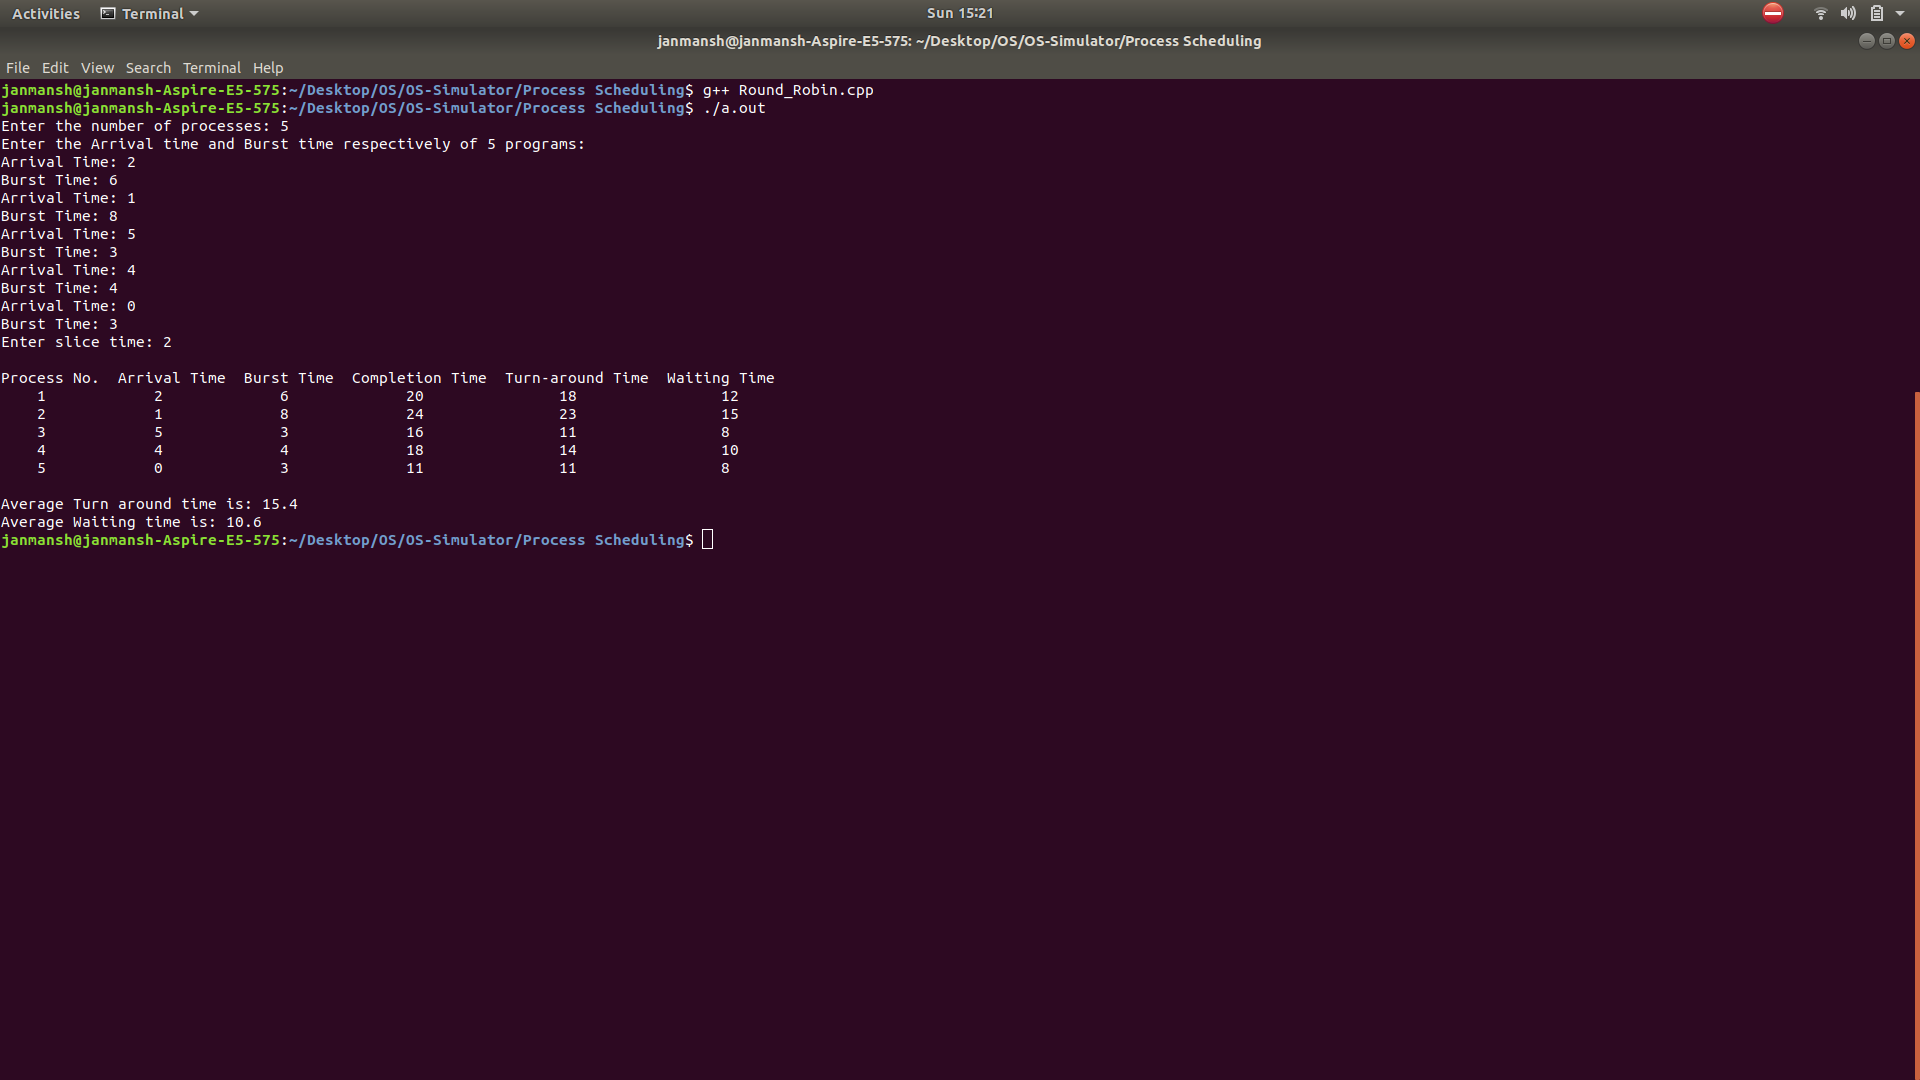
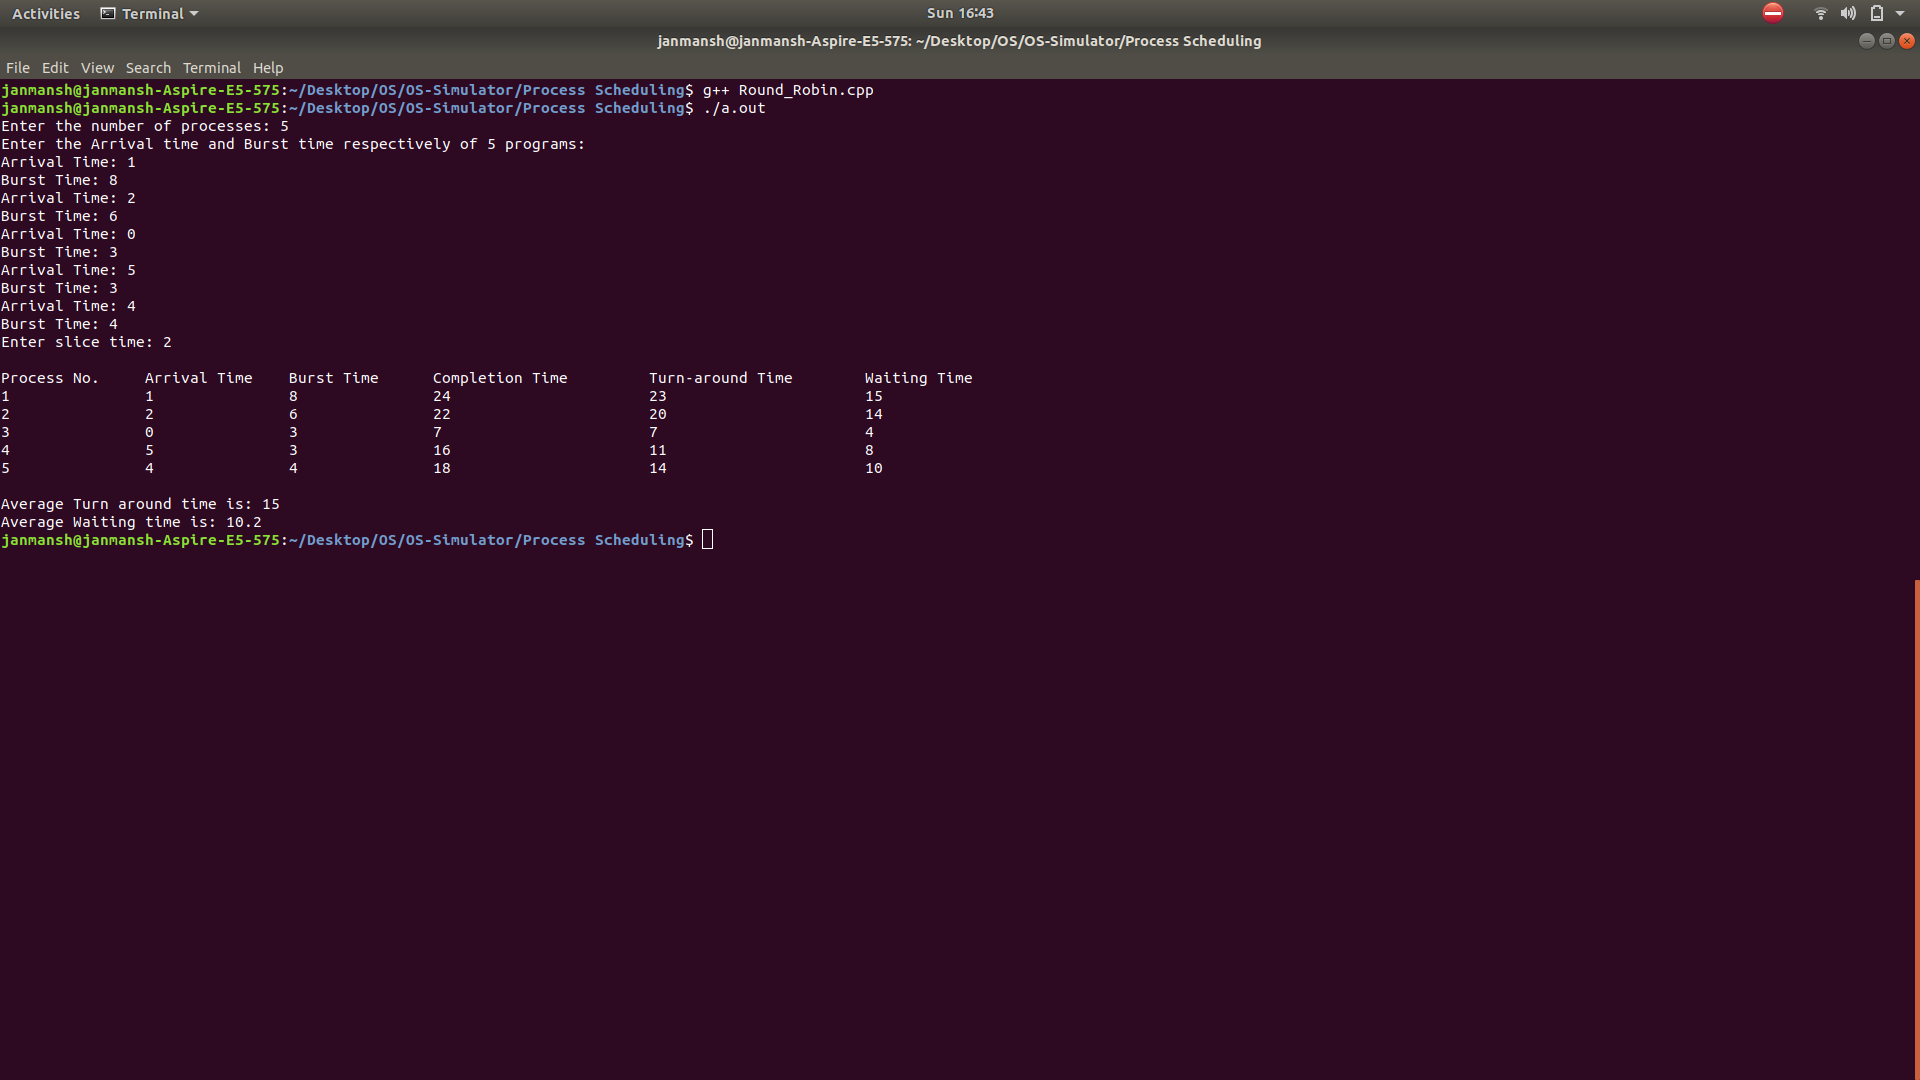
fixed spacing and some errors

Changed region(s): [[0.0625, 0.3361, 0.4062, 0.3972], [0.4375, 0.3361, 0.5, 0.3667]]

diff --git a/Process Scheduling/Priority_preemptive.cpp b/Process Scheduling/Priority_preemptive.cpp
@@ -1,0 +1,70 @@
+#include<bits/stdc++.h>
+using namespace std;
+
+void Priority_preemptive(){
+    
+	cout << "Enter the number of processes: ";
+	int n,i,j;
+	cin>>n;
+	while(n<0){
+		cout<<"Wrong input, try again\nEnter number of processes: ";
+		cin>>n;
+	}
+	vector<tuple<int, int, int, int, int, int>>times(n); // {at, bt, priority ct, tat, wt}
+	
+	cout << "Enter the Arrival time and Burst time respectively of " << n << " programs:\n";
+	for(i=0;i<n;i++){
+	    int t;
+		cout << "Arrival Time: ";
+	    cin>>t;
+		while(t<0){
+			cout<<"Wrong input, try again\nArrival time: ";
+			cin>>t;
+		}
+	    get<0>(times[i])=t;  // Arrival time
+	    cout << "Burst Time: ";
+	    cin>>t;
+		while(t<0){
+			cout<<"Wrong input, try again\nBurst time: ";
+			cin>>t;
+		}
+	    get<1>(times[i])=t;  // Burst time
+        cout << "Priority(0 means highest priority): ";
+	    cin>>t;
+		while(t<0){
+			cout<<"Wrong input, try again\nPriority: ";
+			cin>>t;
+		}
+        get<2>(times[i]) = t;
+	    get<3>(times[i])=0;  // Completion time
+	    get<4>(times[i])=0;  // Turn around time
+	    get<5>(times[i])=0;  // Waiting time
+	}
+    
+
+	
+	double TAT=0,TWT=0;
+	
+	for(i=0;i<n;i++){
+	    TAT += get<4>(times[i]);
+	    TWT += get<5>(times[i]);
+	}
+
+	cout << "\nProcess No.\tArrival Time\tBurst Time\tPriority\tCompletion Time\t\tTurn-around Time\tWaiting Time\n";
+	for(i=0;i<n;i++){
+		cout<< i+1 << "\t\t" << get<0>(times[i]) << "\t\t" << get<1>(times[i]) << "\t\t" << get<2>(times[i]) << "\t\t" << get<3>(times[i]) << "\t\t\t" << get<4>(times[i]) << "\t\t\t" << get<5>(times[i]) << "\n";
+	}
+	
+	TAT = TAT/(1.0*n);    // Average TAT
+	TWT = TWT/(1.0*n);    // Average WT
+	
+	cout << "\nAverage Turn around time is: " << TAT <<"\n";
+	cout << "Average Waiting time is: " << TWT <<"\n";
+	
+	return;
+}
+
+int main(){
+	Priority_preemptive();
+	return 0;
+}

diff --git a/Process Scheduling/Round_Robin.cpp b/Process Scheduling/Round_Robin.cpp
@@ -66,7 +66,7 @@ void Round_Robin(){
 	        
 	        if(get<0>(times[i])<=ti&&get<1>(times[i])>0){
 	            f=1;
-	            ti += min(bt[i], 2);
+	            ti += min(bt[i], slicetime);
 	            bt[i] = max(0, bt[i]-slicetime);
 	            
 	            if(bt[i]==0){
@@ -103,9 +103,9 @@ void Round_Robin(){
 	    TWT += get<4>(times[i]);
 	}
 
-	cout << "\nProcess No.  Arrival Time  Burst Time  Completion Time  Turn-around Time  Waiting Time\n";
+	cout << "\nProcess No.\tArrival Time\tBurst Time\tCompletion Time\t\tTurn-around Time\tWaiting Time\n";
 	for(i=0;i<n;i++){
-		cout << "    " << i+1 << "            " << get<0>(times[i]) << "             " << get<1>(times[i]) << "             " << get<2>(times[i]) << "               " << get<3>(times[i]) << "                " << get<4>(times[i]) << "\n";
+		cout << i+1 << "\t\t" << get<0>(times[i]) << "\t\t" << get<1>(times[i]) << "\t\t" << get<2>(times[i]) << "\t\t\t" << get<3>(times[i]) << "\t\t\t" << get<4>(times[i]) << "\n";
 	}
 	
 	TAT = TAT/(1.0*n);    // Average TAT

diff --git a/Process Scheduling/FCFS.cpp b/Process Scheduling/FCFS.cpp
@@ -56,9 +56,9 @@ void FCFS() {
 	    TWT += get<4>(times[i]);
 	}
 
-	cout << "\nProcess No.  Arrival Time  Burst Time  Completion Time  Turn-around Time  Waiting Time\n";
+	cout << "\nProcess No.\tArrival Time\tBurst Time\tCompletion Time\t\tTurn-around Time\tWaiting Time\n";
 	for(i=0;i<n;i++){
-		cout << "    " << i+1 << "            " << get<0>(times[i]) << "             " << get<1>(times[i]) << "             " << get<2>(times[i]) << "               " << get<3>(times[i]) << "                " << get<4>(times[i]) << "\n";
+		cout << i+1 << "\t\t" << get<0>(times[i]) << "\t\t" << get<1>(times[i]) << "\t\t" << get<2>(times[i]) << "\t\t\t" << get<3>(times[i]) << "\t\t\t" << get<4>(times[i]) << "\n";
 	}
 	
 	TAT = TAT/(1.0*n);    // Average TAT

diff --git a/Process Scheduling/SJF.cpp b/Process Scheduling/SJF.cpp
@@ -85,9 +85,9 @@ void SJF() {
 	    TWT += get<4>(times[i]);
 	}
 
-	cout << "\nProcess No.  Arrival Time  Burst Time  Completion Time  Turn-around Time  Waiting Time\n";
+	cout << "\nProcess No.\tArrival Time\tBurst Time\tCompletion Time\t\tTurn-around Time\tWaiting Time\n";
 	for(i=0;i<n;i++){
-		cout << "    " << i+1 << "            " << get<0>(times[i]) << "             " << get<1>(times[i]) << "             " << get<2>(times[i]) << "               " << get<3>(times[i]) << "                " << get<4>(times[i]) << "\n";
+		cout << i+1 << "\t\t" << get<0>(times[i]) << "\t\t" << get<1>(times[i]) << "\t\t" << get<2>(times[i]) << "\t\t\t" << get<3>(times[i]) << "\t\t\t" << get<4>(times[i]) << "\n";
 	}
 	
 	TAT = TAT/(1.0*n);    // Average TAT
